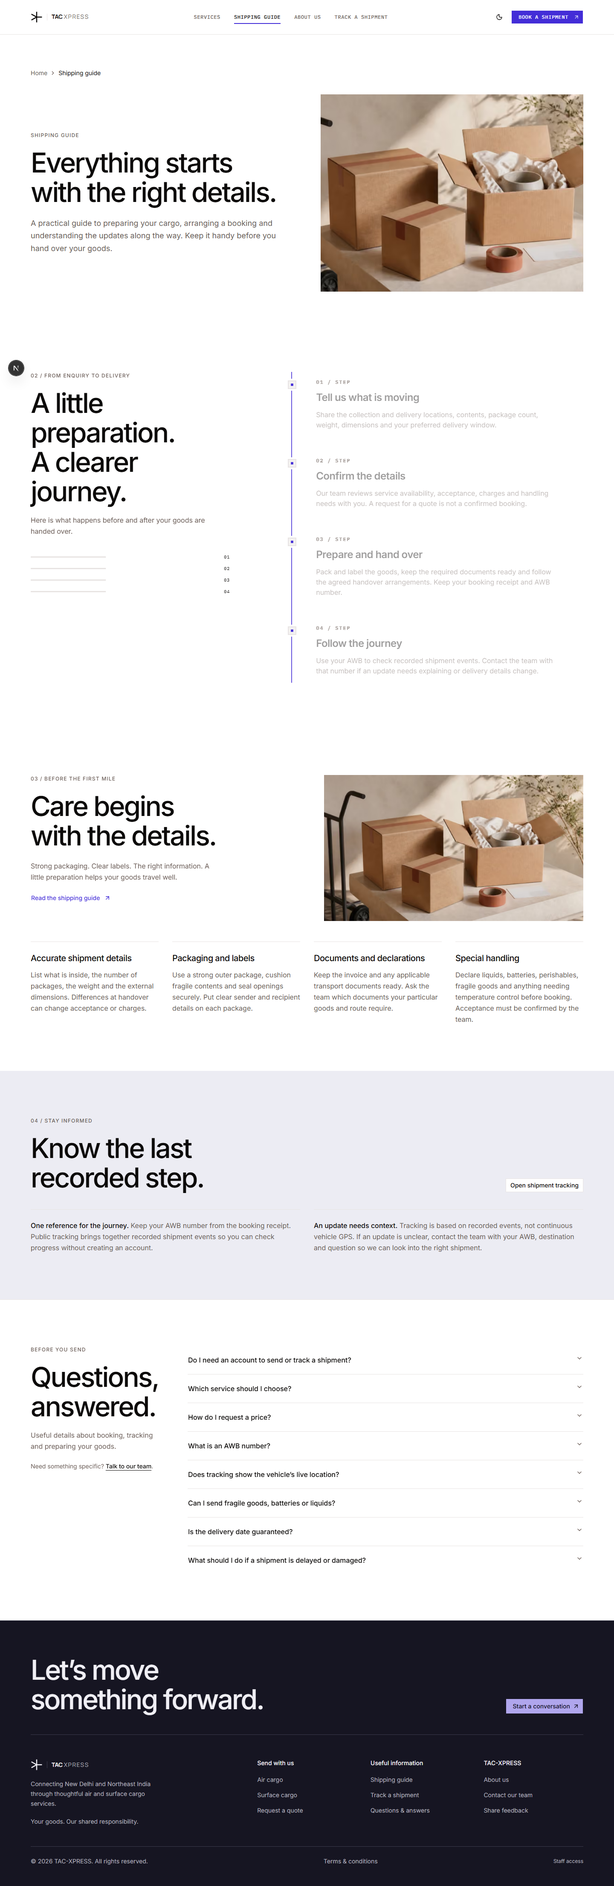
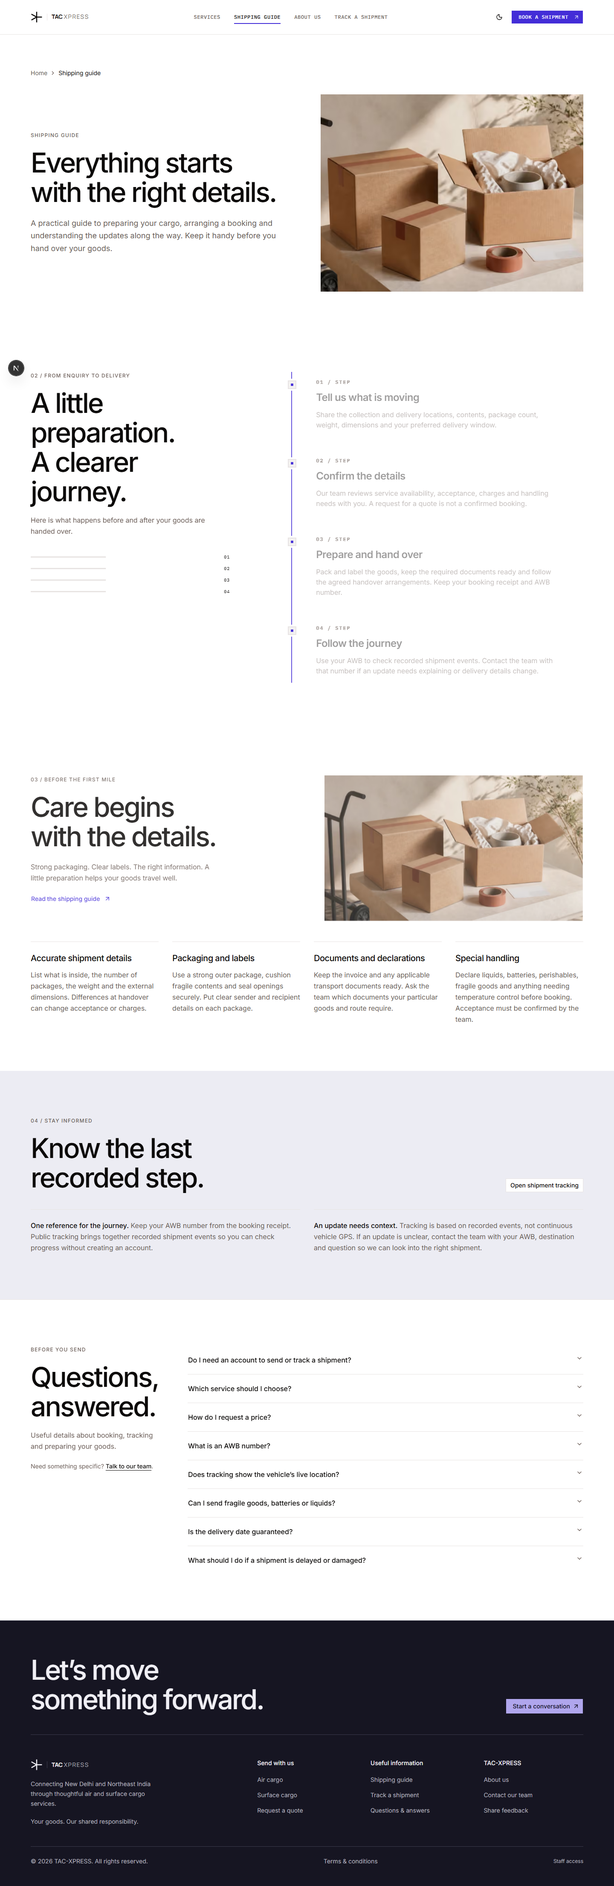
refactor(ui): streamline hero visual, align zero-radius tokens, and prune dead primitives

Changed region(s): [[0.5312, 0.4062, 0.9688, 0.4999], [0.0625, 0.4062, 0.3438, 0.4686]]

diff --git a/components/ui/dropdown-menu.tsx b/components/ui/dropdown-menu.tsx
@@ -42,7 +42,7 @@ function DropdownMenuContent({
         data-slot="dropdown-menu-content"
         sideOffset={sideOffset}
         align={align}
-        className={cn("z-50 max-h-(--radix-dropdown-menu-content-available-height) w-(--radix-dropdown-menu-trigger-width) min-w-32 origin-(--radix-dropdown-menu-content-transform-origin) overflow-x-hidden overflow-y-auto rounded-lg bg-popover p-1 text-popover-foreground shadow-md ring-1 ring-foreground/10 duration-100 data-[side=bottom]:slide-in-from-top-2 data-[side=left]:slide-in-from-right-2 data-[side=right]:slide-in-from-left-2 data-[side=top]:slide-in-from-bottom-2 data-[state=closed]:overflow-hidden data-open:animate-in data-open:fade-in-0 data-open:zoom-in-95 data-closed:animate-out data-closed:fade-out-0 data-closed:zoom-out-95", className )}
+        className={cn("z-50 max-h-(--radix-dropdown-menu-content-available-height) w-(--radix-dropdown-menu-trigger-width) min-w-32 origin-(--radix-dropdown-menu-content-transform-origin) overflow-x-hidden overflow-y-auto rounded-none bg-popover p-1 text-popover-foreground shadow-md ring-1 ring-foreground/10 duration-100 data-[side=bottom]:slide-in-from-top-2 data-[side=left]:slide-in-from-right-2 data-[side=right]:slide-in-from-left-2 data-[side=top]:slide-in-from-bottom-2 data-[state=closed]:overflow-hidden data-open:animate-in data-open:fade-in-0 data-open:zoom-in-95 data-closed:animate-out data-closed:fade-out-0 data-closed:zoom-out-95", className )}
         {...props}
       />
     </DropdownMenuPrimitive.Portal>
@@ -72,7 +72,7 @@ function DropdownMenuItem({
       data-inset={inset}
       data-variant={variant}
       className={cn(
-        "group/dropdown-menu-item relative flex cursor-default items-center gap-1.5 rounded-md px-1.5 py-1 text-sm outline-hidden select-none focus:bg-accent focus:text-accent-foreground not-data-[variant=destructive]:focus:**:text-accent-foreground data-inset:pl-7 data-[variant=destructive]:text-destructive data-[variant=destructive]:focus:bg-destructive/10 data-[variant=destructive]:focus:text-destructive dark:data-[variant=destructive]:focus:bg-destructive/20 data-disabled:pointer-events-none data-disabled:opacity-50 [&_svg]:pointer-events-none [&_svg]:shrink-0 [&_svg:not([class*='size-'])]:size-4 data-[variant=destructive]:*:[svg]:text-destructive",
+        "group/dropdown-menu-item relative flex cursor-default items-center gap-1.5 rounded-none px-1.5 py-1 text-sm outline-hidden select-none focus:bg-accent focus:text-accent-foreground not-data-[variant=destructive]:focus:**:text-accent-foreground data-inset:pl-7 data-[variant=destructive]:text-destructive data-[variant=destructive]:focus:bg-destructive/10 data-[variant=destructive]:focus:text-destructive dark:data-[variant=destructive]:focus:bg-destructive/20 data-disabled:pointer-events-none data-disabled:opacity-50 [&_svg]:pointer-events-none [&_svg]:shrink-0 [&_svg:not([class*='size-'])]:size-4 data-[variant=destructive]:*:[svg]:text-destructive",
         className
       )}
       {...props}
@@ -94,7 +94,7 @@ function DropdownMenuCheckboxItem({
       data-slot="dropdown-menu-checkbox-item"
       data-inset={inset}
       className={cn(
-        "relative flex cursor-default items-center gap-1.5 rounded-md py-1 pr-8 pl-1.5 text-sm outline-hidden select-none focus:bg-accent focus:text-accent-foreground focus:**:text-accent-foreground data-inset:pl-7 data-disabled:pointer-events-none data-disabled:opacity-50 [&_svg]:pointer-events-none [&_svg]:shrink-0 [&_svg:not([class*='size-'])]:size-4",
+        "relative flex cursor-default items-center gap-1.5 rounded-none py-1 pr-8 pl-1.5 text-sm outline-hidden select-none focus:bg-accent focus:text-accent-foreground focus:**:text-accent-foreground data-inset:pl-7 data-disabled:pointer-events-none data-disabled:opacity-50 [&_svg]:pointer-events-none [&_svg]:shrink-0 [&_svg:not([class*='size-'])]:size-4",
         className
       )}
       checked={checked}
@@ -138,7 +138,7 @@ function DropdownMenuRadioItem({
       data-slot="dropdown-menu-radio-item"
       data-inset={inset}
       className={cn(
-        "relative flex cursor-default items-center gap-1.5 rounded-md py-1 pr-8 pl-1.5 text-sm outline-hidden select-none focus:bg-accent focus:text-accent-foreground focus:**:text-accent-foreground data-inset:pl-7 data-disabled:pointer-events-none data-disabled:opacity-50 [&_svg]:pointer-events-none [&_svg]:shrink-0 [&_svg:not([class*='size-'])]:size-4",
+        "relative flex cursor-default items-center gap-1.5 rounded-none py-1 pr-8 pl-1.5 text-sm outline-hidden select-none focus:bg-accent focus:text-accent-foreground focus:**:text-accent-foreground data-inset:pl-7 data-disabled:pointer-events-none data-disabled:opacity-50 [&_svg]:pointer-events-none [&_svg]:shrink-0 [&_svg:not([class*='size-'])]:size-4",
         className
       )}
       {...props}
@@ -225,7 +225,7 @@ function DropdownMenuSubTrigger({
       data-slot="dropdown-menu-sub-trigger"
       data-inset={inset}
       className={cn(
-        "flex cursor-default items-center gap-1.5 rounded-md px-1.5 py-1 text-sm outline-hidden select-none focus:bg-accent focus:text-accent-foreground not-data-[variant=destructive]:focus:**:text-accent-foreground data-inset:pl-7 data-open:bg-accent data-open:text-accent-foreground [&_svg]:pointer-events-none [&_svg]:shrink-0 [&_svg:not([class*='size-'])]:size-4",
+        "flex cursor-default items-center gap-1.5 rounded-none px-1.5 py-1 text-sm outline-hidden select-none focus:bg-accent focus:text-accent-foreground not-data-[variant=destructive]:focus:**:text-accent-foreground data-inset:pl-7 data-open:bg-accent data-open:text-accent-foreground [&_svg]:pointer-events-none [&_svg]:shrink-0 [&_svg:not([class*='size-'])]:size-4",
         className
       )}
       {...props}
@@ -243,7 +243,7 @@ function DropdownMenuSubContent({
   return (
     <DropdownMenuPrimitive.SubContent
       data-slot="dropdown-menu-sub-content"
-      className={cn("z-50 min-w-[96px] origin-(--radix-dropdown-menu-content-transform-origin) overflow-hidden rounded-lg bg-popover p-1 text-popover-foreground shadow-lg ring-1 ring-foreground/10 duration-100 data-[side=bottom]:slide-in-from-top-2 data-[side=left]:slide-in-from-right-2 data-[side=right]:slide-in-from-left-2 data-[side=top]:slide-in-from-bottom-2 data-open:animate-in data-open:fade-in-0 data-open:zoom-in-95 data-closed:animate-out data-closed:fade-out-0 data-closed:zoom-out-95", className )}
+      className={cn("z-50 min-w-[96px] origin-(--radix-dropdown-menu-content-transform-origin) overflow-hidden rounded-none bg-popover p-1 text-popover-foreground shadow-lg ring-1 ring-foreground/10 duration-100 data-[side=bottom]:slide-in-from-top-2 data-[side=left]:slide-in-from-right-2 data-[side=right]:slide-in-from-left-2 data-[side=top]:slide-in-from-bottom-2 data-open:animate-in data-open:fade-in-0 data-open:zoom-in-95 data-closed:animate-out data-closed:fade-out-0 data-closed:zoom-out-95", className )}
       {...props}
     />
   )

diff --git a/components/ui/menubar.tsx b/components/ui/menubar.tsx
@@ -13,7 +13,7 @@ function Menubar({
     <MenubarPrimitive.Root
       data-slot="menubar"
       className={cn(
-        "flex h-8 items-center gap-0.5 rounded-lg border p-[3px]",
+        "flex h-8 items-center gap-0.5 rounded-none border p-[3px]",
         className
       )}
       {...props}
@@ -55,7 +55,7 @@ function MenubarTrigger({
     <MenubarPrimitive.Trigger
       data-slot="menubar-trigger"
       className={cn(
-        "flex items-center rounded-sm px-1.5 py-[2px] text-sm font-medium outline-hidden select-none hover:bg-muted aria-expanded:bg-muted",
+        "flex items-center rounded-none px-1.5 py-[2px] text-sm font-medium outline-hidden select-none hover:bg-muted aria-expanded:bg-muted",
         className
       )}
       {...props}
@@ -77,7 +77,7 @@ function MenubarContent({
         align={align}
         alignOffset={alignOffset}
         sideOffset={sideOffset}
-        className={cn("z-50 min-w-36 origin-(--radix-menubar-content-transform-origin) overflow-hidden rounded-lg bg-popover p-1 text-popover-foreground shadow-md ring-1 ring-foreground/10 duration-100 data-[side=bottom]:slide-in-from-top-2 data-[side=left]:slide-in-from-right-2 data-[side=right]:slide-in-from-left-2 data-[side=top]:slide-in-from-bottom-2 data-open:animate-in data-open:fade-in-0 data-open:zoom-in-95", className )}
+        className={cn("z-50 min-w-36 origin-(--radix-menubar-content-transform-origin) overflow-hidden rounded-none bg-popover p-1 text-popover-foreground shadow-md ring-1 ring-foreground/10 duration-100 data-[side=bottom]:slide-in-from-top-2 data-[side=left]:slide-in-from-right-2 data-[side=right]:slide-in-from-left-2 data-[side=top]:slide-in-from-bottom-2 data-open:animate-in data-open:fade-in-0 data-open:zoom-in-95", className )}
         {...props}
       />
     </MenubarPortal>
@@ -99,7 +99,7 @@ function MenubarItem({
       data-inset={inset}
       data-variant={variant}
       className={cn(
-        "group/menubar-item relative flex cursor-default items-center gap-1.5 rounded-md px-1.5 py-1 text-sm outline-hidden select-none focus:bg-accent focus:text-accent-foreground not-data-[variant=destructive]:focus:**:text-accent-foreground data-inset:pl-7 data-[variant=destructive]:text-destructive data-[variant=destructive]:focus:bg-destructive/10 data-[variant=destructive]:focus:text-destructive dark:data-[variant=destructive]:focus:bg-destructive/20 data-disabled:pointer-events-none data-disabled:opacity-50 [&_svg]:pointer-events-none [&_svg]:shrink-0 [&_svg:not([class*='size-'])]:size-4 data-[variant=destructive]:*:[svg]:text-destructive!",
+        "group/menubar-item relative flex cursor-default items-center gap-1.5 rounded-none px-1.5 py-1 text-sm outline-hidden select-none focus:bg-accent focus:text-accent-foreground not-data-[variant=destructive]:focus:**:text-accent-foreground data-inset:pl-7 data-[variant=destructive]:text-destructive data-[variant=destructive]:focus:bg-destructive/10 data-[variant=destructive]:focus:text-destructive dark:data-[variant=destructive]:focus:bg-destructive/20 data-disabled:pointer-events-none data-disabled:opacity-50 [&_svg]:pointer-events-none [&_svg]:shrink-0 [&_svg:not([class*='size-'])]:size-4 data-[variant=destructive]:*:[svg]:text-destructive!",
         className
       )}
       {...props}
@@ -121,7 +121,7 @@ function MenubarCheckboxItem({
       data-slot="menubar-checkbox-item"
       data-inset={inset}
       className={cn(
-        "relative flex cursor-default items-center gap-1.5 rounded-md py-1 pr-1.5 pl-7 text-sm outline-hidden select-none focus:bg-accent focus:text-accent-foreground focus:**:text-accent-foreground data-inset:pl-7 data-disabled:pointer-events-none [&_svg]:pointer-events-none [&_svg]:shrink-0",
+        "relative flex cursor-default items-center gap-1.5 rounded-none py-1 pr-1.5 pl-7 text-sm outline-hidden select-none focus:bg-accent focus:text-accent-foreground focus:**:text-accent-foreground data-inset:pl-7 data-disabled:pointer-events-none [&_svg]:pointer-events-none [&_svg]:shrink-0",
         className
       )}
       checked={checked}
@@ -151,7 +151,7 @@ function MenubarRadioItem({
       data-slot="menubar-radio-item"
       data-inset={inset}
       className={cn(
-        "relative flex cursor-default items-center gap-1.5 rounded-md py-1 pr-1.5 pl-7 text-sm outline-hidden select-none focus:bg-accent focus:text-accent-foreground focus:**:text-accent-foreground data-inset:pl-7 data-disabled:pointer-events-none data-disabled:opacity-50 [&_svg]:pointer-events-none [&_svg]:shrink-0 [&_svg:not([class*='size-'])]:size-4",
+        "relative flex cursor-default items-center gap-1.5 rounded-none py-1 pr-1.5 pl-7 text-sm outline-hidden select-none focus:bg-accent focus:text-accent-foreground focus:**:text-accent-foreground data-inset:pl-7 data-disabled:pointer-events-none data-disabled:opacity-50 [&_svg]:pointer-events-none [&_svg]:shrink-0 [&_svg:not([class*='size-'])]:size-4",
         className
       )}
       {...props}
@@ -235,7 +235,7 @@ function MenubarSubTrigger({
       data-slot="menubar-sub-trigger"
       data-inset={inset}
       className={cn(
-        "flex cursor-default items-center gap-1.5 rounded-md px-1.5 py-1 text-sm outline-none select-none focus:bg-accent focus:text-accent-foreground data-inset:pl-7 data-open:bg-accent data-open:text-accent-foreground [&_svg:not([class*='size-'])]:size-4",
+        "flex cursor-default items-center gap-1.5 rounded-none px-1.5 py-1 text-sm outline-none select-none focus:bg-accent focus:text-accent-foreground data-inset:pl-7 data-open:bg-accent data-open:text-accent-foreground [&_svg:not([class*='size-'])]:size-4",
         className
       )}
       {...props}
@@ -253,7 +253,7 @@ function MenubarSubContent({
   return (
     <MenubarPrimitive.SubContent
       data-slot="menubar-sub-content"
-      className={cn("z-50 min-w-32 origin-(--radix-menubar-content-transform-origin) overflow-hidden rounded-lg bg-popover p-1 text-popover-foreground shadow-lg ring-1 ring-foreground/10 duration-100 data-[side=bottom]:slide-in-from-top-2 data-[side=left]:slide-in-from-right-2 data-[side=right]:slide-in-from-left-2 data-[side=top]:slide-in-from-bottom-2 data-open:animate-in data-open:fade-in-0 data-open:zoom-in-95 data-closed:animate-out data-closed:fade-out-0 data-closed:zoom-out-95", className )}
+      className={cn("z-50 min-w-32 origin-(--radix-menubar-content-transform-origin) overflow-hidden rounded-none bg-popover p-1 text-popover-foreground shadow-lg ring-1 ring-foreground/10 duration-100 data-[side=bottom]:slide-in-from-top-2 data-[side=left]:slide-in-from-right-2 data-[side=right]:slide-in-from-left-2 data-[side=top]:slide-in-from-bottom-2 data-open:animate-in data-open:fade-in-0 data-open:zoom-in-95 data-closed:animate-out data-closed:fade-out-0 data-closed:zoom-out-95", className )}
       {...props}
     />
   )

diff --git a/components/public/hero-lottie-truck.tsx b/components/public/hero-lottie-truck.tsx
@@ -1,85 +1,36 @@
-"use client"
-
-import React, { useEffect, useRef, useState } from "react"
-import { useReducedMotion } from "motion/react"
-import isChromatic from "chromatic/isChromatic"
-import type { AnimationItem } from "lottie-web"
+import React from "react"
+import Image from "next/image"
 import { cn } from "@/lib/utils"
 
 interface HeroLottieTruckProps {
   className?: string
 }
 
+/**
+ * High-performance Nordic hero visual for TAC-XPRESS commercial linehaul.
+ * Uses Next.js optimized Image with priority loading to eliminate blank hero voids.
+ */
 export function HeroLottieTruck({ className }: HeroLottieTruckProps) {
-  const containerRef = useRef<HTMLDivElement>(null)
-  const animRef = useRef<AnimationItem | null>(null)
-  const [isLoaded, setIsLoaded] = useState(false)
-  const shouldReduceMotion = useReducedMotion()
-
-  useEffect(() => {
-    let isMounted = true
-
-    // Dynamically load lottie-web for clean client-side rendering
-    import("lottie-web").then((lottieModule) => {
-      if (!isMounted || !containerRef.current) return
-
-      const lottie = lottieModule.default || lottieModule
-
-      if (animRef.current) {
-        animRef.current.destroy()
-      }
-
-      const anim = lottie.loadAnimation({
-        container: containerRef.current,
-        renderer: "svg",
-        loop: !shouldReduceMotion && !isChromatic(),
-        autoplay: !shouldReduceMotion && !isChromatic(),
-        path: "/lottie/Truck.json",
-        rendererSettings: {
-          preserveAspectRatio: "xMidYMid meet",
-          progressiveLoad: true,
-        },
-      })
-
-      animRef.current = anim
-
-      anim.addEventListener("DOMLoaded", () => {
-        if (isMounted) {
-          setIsLoaded(true)
-          if (shouldReduceMotion || isChromatic()) {
-            anim.goToAndStop(15, true)
-          }
-        }
-      })
-    })
-
-    return () => {
-      isMounted = false
-      if (animRef.current) {
-        animRef.current.destroy()
-        animRef.current = null
-      }
-    }
-  }, [shouldReduceMotion])
-
   return (
     <div className={cn("relative w-full aspect-[4/3] flex items-center justify-center select-none", className)}>
-      {/* Subtle ambient lighting behind vector illustration in dark & light mode */}
+      {/* Subtle ambient radial glow behind truck in dark & light mode */}
       <div
-        className="pointer-events-none absolute inset-0 -z-10 bg-radial from-primary/10 via-transparent to-transparent blur-2xl opacity-80 dark:opacity-40 scale-110"
+        className="pointer-events-none absolute inset-0 -z-10 bg-radial from-primary/15 via-transparent to-transparent blur-3xl opacity-70 dark:opacity-40 scale-110"
         aria-hidden="true"
       />
       
-      {/* Lottie SVG Container */}
-      <div
-        ref={containerRef}
-        className={cn(
-          "w-full h-full flex items-center justify-center transition-opacity duration-500 [&>svg]:w-full [&>svg]:h-full [&>svg]:drop-shadow-sm dark:[&>svg]:drop-shadow-[0_4px_24px_rgba(0,0,0,0.6)]",
-          isLoaded ? "opacity-100" : "opacity-0"
-        )}
-        aria-label="TAC-XPRESS commercial cargo transport truck"
-        role="img"
-      />
+      {/* High-fidelity static commercial cargo transport linehaul */}
+      <div className="relative w-full h-full flex items-center justify-center">
+        <Image
+          src="/images/hero/hero-blender-truck-dark.png"
+          alt="TAC-XPRESS commercial cargo transport truck"
+          width={800}
+          height={600}
+          priority
+          sizes="(max-width: 640px) 100vw, (max-width: 1024px) 50vw, 40vw"
+          className="w-full h-auto object-contain drop-shadow-sm dark:drop-shadow-[0_8px_32px_rgba(0,0,0,0.7)]"
+        />
+      </div>
     </div>
   )
 }

diff --git a/components/ui/tabs.tsx b/components/ui/tabs.tsx
@@ -24,7 +24,7 @@ function Tabs({
 }
 
 const tabsListVariants = cva(
-  "group/tabs-list inline-flex w-fit items-center justify-center rounded-lg p-[3px] text-muted-foreground group-data-horizontal/tabs:h-8 group-data-vertical/tabs:h-fit group-data-vertical/tabs:flex-col data-[variant=line]:rounded-none",
+  "group/tabs-list inline-flex w-fit items-center justify-center rounded-none p-[3px] text-muted-foreground group-data-horizontal/tabs:h-8 group-data-vertical/tabs:h-fit group-data-vertical/tabs:flex-col data-[variant=line]:rounded-none",
   {
     variants: {
       variant: {
@@ -62,7 +62,7 @@ function TabsTrigger({
     <TabsPrimitive.Trigger
       data-slot="tabs-trigger"
       className={cn(
-        "relative inline-flex h-[calc(100%-1px)] flex-1 items-center justify-center gap-1.5 rounded-md border border-transparent px-1.5 py-0.5 text-sm font-medium whitespace-nowrap text-foreground/60 transition-all group-data-vertical/tabs:w-full group-data-vertical/tabs:justify-start hover:text-foreground focus-visible:border-ring focus-visible:ring-[3px] focus-visible:ring-ring/50 focus-visible:outline-1 focus-visible:outline-ring disabled:pointer-events-none disabled:opacity-50 has-data-[icon=inline-end]:pr-1 has-data-[icon=inline-start]:pl-1 dark:text-muted-foreground dark:hover:text-foreground group-data-[variant=default]/tabs-list:data-active:shadow-sm group-data-[variant=line]/tabs-list:data-active:shadow-none [&_svg]:pointer-events-none [&_svg]:shrink-0 [&_svg:not([class*='size-'])]:size-4",
+        "relative inline-flex h-[calc(100%-1px)] flex-1 items-center justify-center gap-1.5 rounded-none border border-transparent px-1.5 py-0.5 text-sm font-medium whitespace-nowrap text-foreground/60 transition-all group-data-vertical/tabs:w-full group-data-vertical/tabs:justify-start hover:text-foreground focus-visible:border-ring focus-visible:ring-[3px] focus-visible:ring-ring/50 focus-visible:outline-1 focus-visible:outline-ring disabled:pointer-events-none disabled:opacity-50 has-data-[icon=inline-end]:pr-1 has-data-[icon=inline-start]:pl-1 dark:text-muted-foreground dark:hover:text-foreground group-data-[variant=default]/tabs-list:data-active:shadow-sm group-data-[variant=line]/tabs-list:data-active:shadow-none [&_svg]:pointer-events-none [&_svg]:shrink-0 [&_svg:not([class*='size-'])]:size-4",
         "group-data-[variant=line]/tabs-list:bg-transparent group-data-[variant=line]/tabs-list:data-active:bg-transparent dark:group-data-[variant=line]/tabs-list:data-active:border-transparent dark:group-data-[variant=line]/tabs-list:data-active:bg-transparent",
         "data-active:bg-background data-active:text-foreground dark:data-active:border-input dark:data-active:bg-input/30 dark:data-active:text-foreground",
         "after:absolute after:bg-foreground after:opacity-0 after:transition-opacity group-data-horizontal/tabs:after:inset-x-0 group-data-horizontal/tabs:after:bottom-[-5px] group-data-horizontal/tabs:after:h-0.5 group-data-vertical/tabs:after:inset-y-0 group-data-vertical/tabs:after:-right-1 group-data-vertical/tabs:after:w-0.5 group-data-[variant=line]/tabs-list:data-active:after:opacity-100",

diff --git a/components/public/magnetic-button.tsx b/components/public/magnetic-button.tsx
@@ -1,7 +1,7 @@
 "use client"
 
-import React, { useRef, useEffect } from "react"
-import { motion, useReducedMotion, useMotionValue, useSpring } from "motion/react"
+import React from "react"
+import { cn } from "@/lib/utils"
 
 interface MagneticButtonProps {
   children: React.ReactNode
@@ -11,62 +11,21 @@ interface MagneticButtonProps {
 }
 
 /**
- * Reusable magnetic button component powered by Framer Motion.
- * Provides micro-physics cursor attraction with elastic snap-back.
- * Adheres to WCAG: automatically disabled when prefers-reduced-motion is active.
+ * Lightweight, zero-runtime-cost button wrapper for public hero and marketing CTAs.
+ * Replaces physics-based mousemove tracking to eliminate CPU overhead and layout recalculations.
  */
 export function MagneticButton({
   children,
   className,
-  strength = 0.25,
   onClick,
 }: MagneticButtonProps) {
-  const containerRef = useRef<HTMLDivElement>(null)
-  const shouldReduceMotion = useReducedMotion()
-
-  const x = useMotionValue(0)
-  const y = useMotionValue(0)
-  
-  const springX = useSpring(x, { stiffness: 150, damping: 15, mass: 0.1 })
-  const springY = useSpring(y, { stiffness: 150, damping: 15, mass: 0.1 })
-
-  useEffect(() => {
-    const el = containerRef.current
-    if (!el || shouldReduceMotion) return
-
-    const handleMouseMove = (e: MouseEvent) => {
-      const rect = el.getBoundingClientRect()
-      const centerX = rect.left + rect.width / 2
-      const centerY = rect.top + rect.height / 2
-      const deltaX = (e.clientX - centerX) * strength
-      const deltaY = (e.clientY - centerY) * strength
-
-      x.set(deltaX)
-      y.set(deltaY)
-    }
-
-    const handleMouseLeave = () => {
-      x.set(0)
-      y.set(0)
-    }
-
-    el.addEventListener("mousemove", handleMouseMove)
-    el.addEventListener("mouseleave", handleMouseLeave)
-
-    return () => {
-      el.removeEventListener("mousemove", handleMouseMove)
-      el.removeEventListener("mouseleave", handleMouseLeave)
-    }
-  }, [strength, shouldReduceMotion, x, y])
-
   return (
-    <motion.div
-      ref={containerRef}
-      className={className}
+    <div
+      className={cn("inline-block transition-transform active:scale-[0.98]", className)}
       onClick={onClick}
-      style={{ x: springX, y: springY }}
     >
       {children}
-    </motion.div>
+    </div>
   )
 }
+

diff --git a/components/public/track-form.tsx b/components/public/track-form.tsx
@@ -41,7 +41,7 @@ export function TrackForm({ variant = "inline", className, ...props }: TrackForm
           maxLength={40}
           pattern="^[A-Za-z0-9\-]{5,40}$"
           placeholder={placeholder}
-          className="h-11 flex-1 bg-transparent px-3 font-mono text-xs sm:text-sm text-foreground placeholder:text-muted-foreground/60 focus:outline-none uppercase"
+          className="h-11 flex-1 bg-transparent px-3 font-mono text-xs sm:text-sm text-foreground placeholder:text-muted-foreground focus:outline-none uppercase"
         />
         <button
           type="submit"
@@ -117,7 +117,7 @@ export function TrackForm({ variant = "inline", className, ...props }: TrackForm
             pattern="^[A-Za-z0-9\-]{5,40}$"
             autoComplete="off"
             placeholder={placeholder}
-            className="w-full px-4 py-3 font-mono text-sm border focus:outline-none focus-visible:ring-1 transition-colors bg-surface text-foreground placeholder:text-muted-foreground/60 border-border focus:border-primary focus-visible:ring-primary uppercase"
+            className="w-full px-4 py-3 font-mono text-sm border focus:outline-none focus-visible:ring-1 transition-colors bg-surface text-foreground placeholder:text-muted-foreground border-border focus:border-primary focus-visible:ring-primary uppercase"
           />
           <p className="mt-2 text-xs font-mono text-muted-foreground">
             Direct lookup for New Delhi ↔ Northeast India consignments.

diff --git a/components/ui/badge.tsx b/components/ui/badge.tsx
@@ -4,7 +4,7 @@ import { cn } from "@/lib/utils"
 import { Slot } from "radix-ui"
 
 const badgeVariants = cva(
-  "group/badge inline-flex h-5 w-fit shrink-0 items-center justify-center gap-1 overflow-hidden rounded-4xl border border-transparent px-2 py-0.5 text-xs font-medium whitespace-nowrap transition-all focus-visible:border-ring focus-visible:ring-[3px] focus-visible:ring-ring/50 has-data-[icon=inline-end]:pr-1.5 has-data-[icon=inline-start]:pl-1.5 aria-invalid:border-destructive aria-invalid:ring-destructive/20 dark:aria-invalid:ring-destructive/40 [&>svg]:pointer-events-none [&>svg]:size-3!",
+  "group/badge inline-flex h-5 w-fit shrink-0 items-center justify-center gap-1 overflow-hidden border border-transparent px-2 py-0.5 text-xs font-medium whitespace-nowrap transition-all focus-visible:border-ring focus-visible:ring-[3px] focus-visible:ring-ring/50 has-data-[icon=inline-end]:pr-1.5 has-data-[icon=inline-start]:pl-1.5 aria-invalid:border-destructive aria-invalid:ring-destructive/20 dark:aria-invalid:ring-destructive/40 [&>svg]:pointer-events-none [&>svg]:size-3!",
   {
     variants: {
       variant: {

diff --git a/components/public/home-hero.tsx b/components/public/home-hero.tsx
@@ -3,8 +3,7 @@
 import React, { useState } from "react"
 import Link from "next/link"
 import { ArrowUpRight, ChevronDown, ChevronUp, Package, Truck, Search } from "lucide-react"
-import dynamic from "next/dynamic"
-const HeroLottieTruck = dynamic(() => import("./hero-lottie-truck").then(mod => mod.HeroLottieTruck), { ssr: false })
+import { HeroLottieTruck } from "./hero-lottie-truck"
 import { HeroDispatchConsole } from "./hero-dispatch-console"
 import { cn } from "@/lib/utils"
 import {

diff --git a/components/public/hero-dispatch-console.tsx b/components/public/hero-dispatch-console.tsx
@@ -13,7 +13,7 @@ interface HeroDispatchConsoleProps {
 }
 
 export function HeroDispatchConsole({ className, variant: _variant }: HeroDispatchConsoleProps = {}) {
-  const [activeTab, setActiveTab] = useState<"track" | "quote">("track")
+  const [activeTab, setActiveTab] = useState<"track" | "quote">("quote")
   const [selectedDest, setSelectedDest] = useState("imphal")
   const [cargoType, setCargoType] = useState<"air" | "surface">("air")
 
